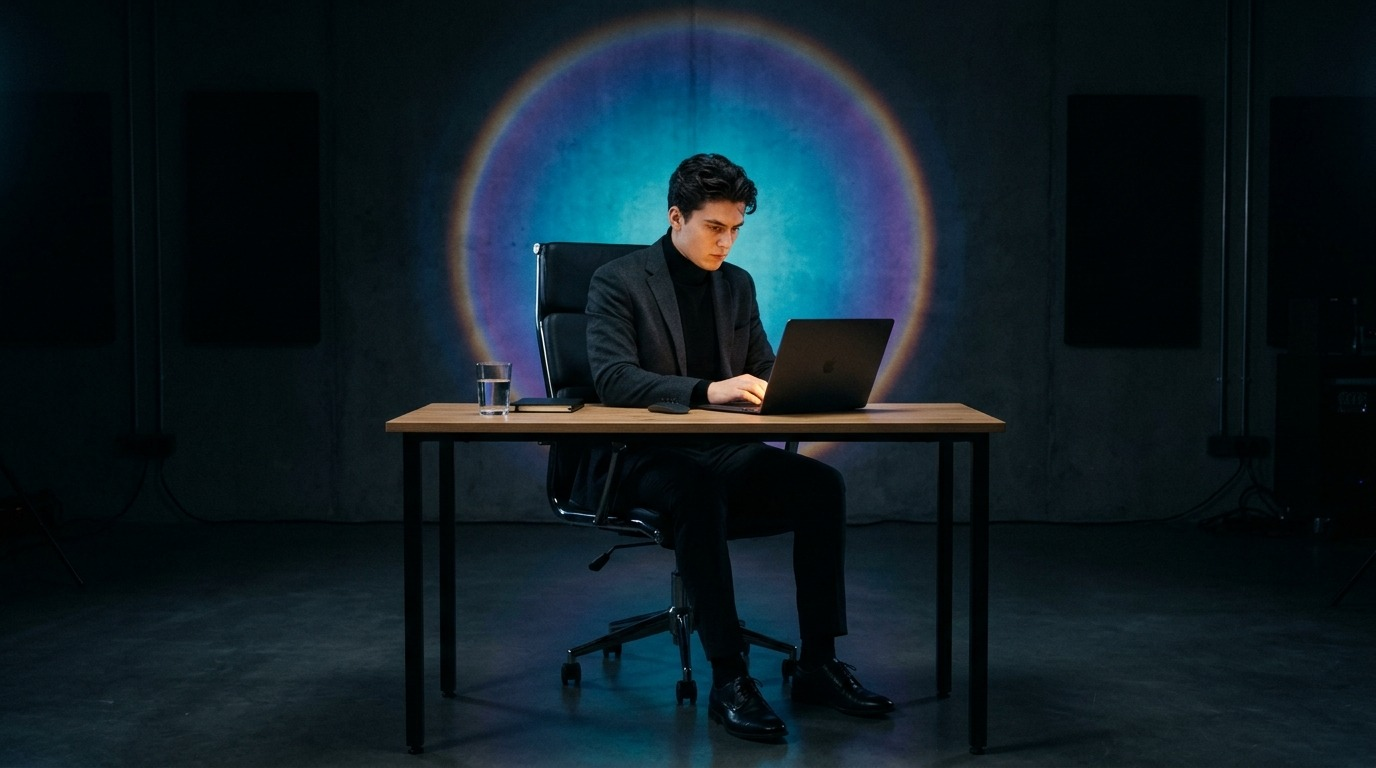
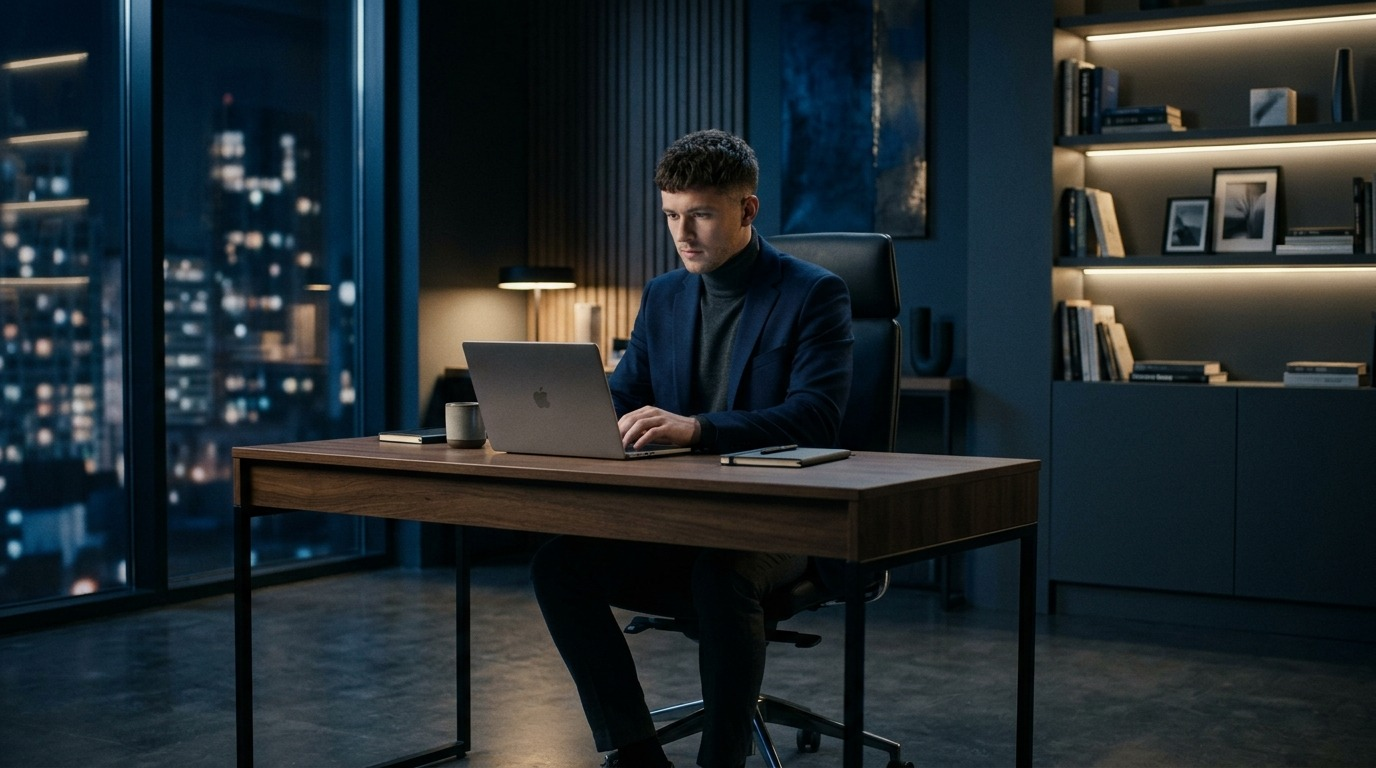
feat(hero): remove circular halo, enlarge visual template, add continuous page reveal fade loop

diff --git a/assets/css/styles.css b/assets/css/styles.css
@@ -348,7 +348,7 @@ h4 { font-size: 16px; letter-spacing: -0.01em; }
 }
 .hero-grid {
   display: grid;
-  grid-template-columns: 1.05fr 0.95fr;
+  grid-template-columns: 1fr 1.08fr;
   gap: 40px;
   align-items: center;
   position: relative;
@@ -2636,10 +2636,10 @@ body::before {
   50% { opacity: 0; }
 }
 
-/* --- Cinematic Tech Founder Hero Visual (Matching User Reference) --- */
+/* --- Cinematic Tech Founder Hero Visual (Enlarged + Looping Page Reveal) --- */
 .founder-hero-scene {
   width: 100%;
-  max-width: 580px;
+  max-width: 680px;
   position: relative;
   display: flex;
   justify-content: center;
@@ -2648,32 +2648,74 @@ body::before {
 
 .founder-hero-glow {
   position: absolute;
-  inset: -20px -30px;
-  background: radial-gradient(ellipse at 50% 50%, rgba(6,182,212,0.2) 0%, rgba(99,102,241,0.15) 45%, transparent 70%);
-  filter: blur(45px);
+  inset: -25px -35px;
+  background: radial-gradient(ellipse at 50% 50%, rgba(6,182,212,0.24) 0%, rgba(99,102,241,0.18) 45%, transparent 70%);
+  filter: blur(50px);
   pointer-events: none;
   z-index: 0;
+  animation: founder-glow-reveal 8s ease-in-out infinite;
 }
 
 .founder-hero-frame {
   position: relative;
   z-index: 2;
   width: 100%;
-  border-radius: 18px;
+  border-radius: 20px;
   overflow: hidden;
-  border: 1px solid rgba(255, 255, 255, 0.1);
+  border: 1px solid rgba(255, 255, 255, 0.12);
   box-shadow:
-    0 25px 60px -10px rgba(0, 0, 0, 0.9),
-    0 0 50px rgba(6, 182, 212, 0.18),
-    inset 0 1px 0 rgba(255, 255, 255, 0.2);
-  transition: transform 0.3s cubic-bezier(0.16, 1, 0.3, 1), box-shadow 0.3s ease;
+    0 25px 65px -10px rgba(0, 0, 0, 0.92),
+    0 0 55px rgba(6, 182, 212, 0.22),
+    inset 0 1px 0 rgba(255, 255, 255, 0.22);
+  animation: founder-page-reveal 8s cubic-bezier(0.4, 0, 0.2, 1) infinite;
+  transition: transform 0.35s cubic-bezier(0.16, 1, 0.3, 1), box-shadow 0.35s ease;
 }
 
-.founder-hero-frame:hover {
-  transform: translateY(-4px);
-  box-shadow:
-    0 30px 70px -10px rgba(0, 0, 0, 0.95),
-    0 0 65px rgba(6, 182, 212, 0.3);
+/* Page Reveal Loop: gayab ho phir dubara aye or phir gayab ho phir dubara aye */
+@keyframes founder-page-reveal {
+  0%, 46% {
+    opacity: 1;
+    transform: translateY(0) scale(1);
+    filter: blur(0px);
+  }
+  51% {
+    opacity: 0;
+    transform: translateY(8px) scale(0.97);
+    filter: blur(8px);
+  }
+  56% {
+    opacity: 0;
+    transform: translateY(-8px) scale(1.02);
+    filter: blur(8px);
+  }
+  62%, 100% {
+    opacity: 1;
+    transform: translateY(0) scale(1);
+    filter: blur(0px);
+  }
+}
+
+@keyframes founder-glow-reveal {
+  0%, 46% {
+    opacity: 0.85;
+    transform: scale(1);
+  }
+  51%, 56% {
+    opacity: 0.1;
+    transform: scale(0.85);
+  }
+  62%, 100% {
+    opacity: 0.95;
+    transform: scale(1.04);
+  }
+}
+
+.founder-hero-scene:hover .founder-hero-frame,
+.founder-hero-scene:hover .founder-hero-glow {
+  animation-play-state: paused;
+  opacity: 1 !important;
+  transform: translateY(-4px) scale(1.01) !important;
+  filter: none !important;
 }
 
 .founder-hero-img {
